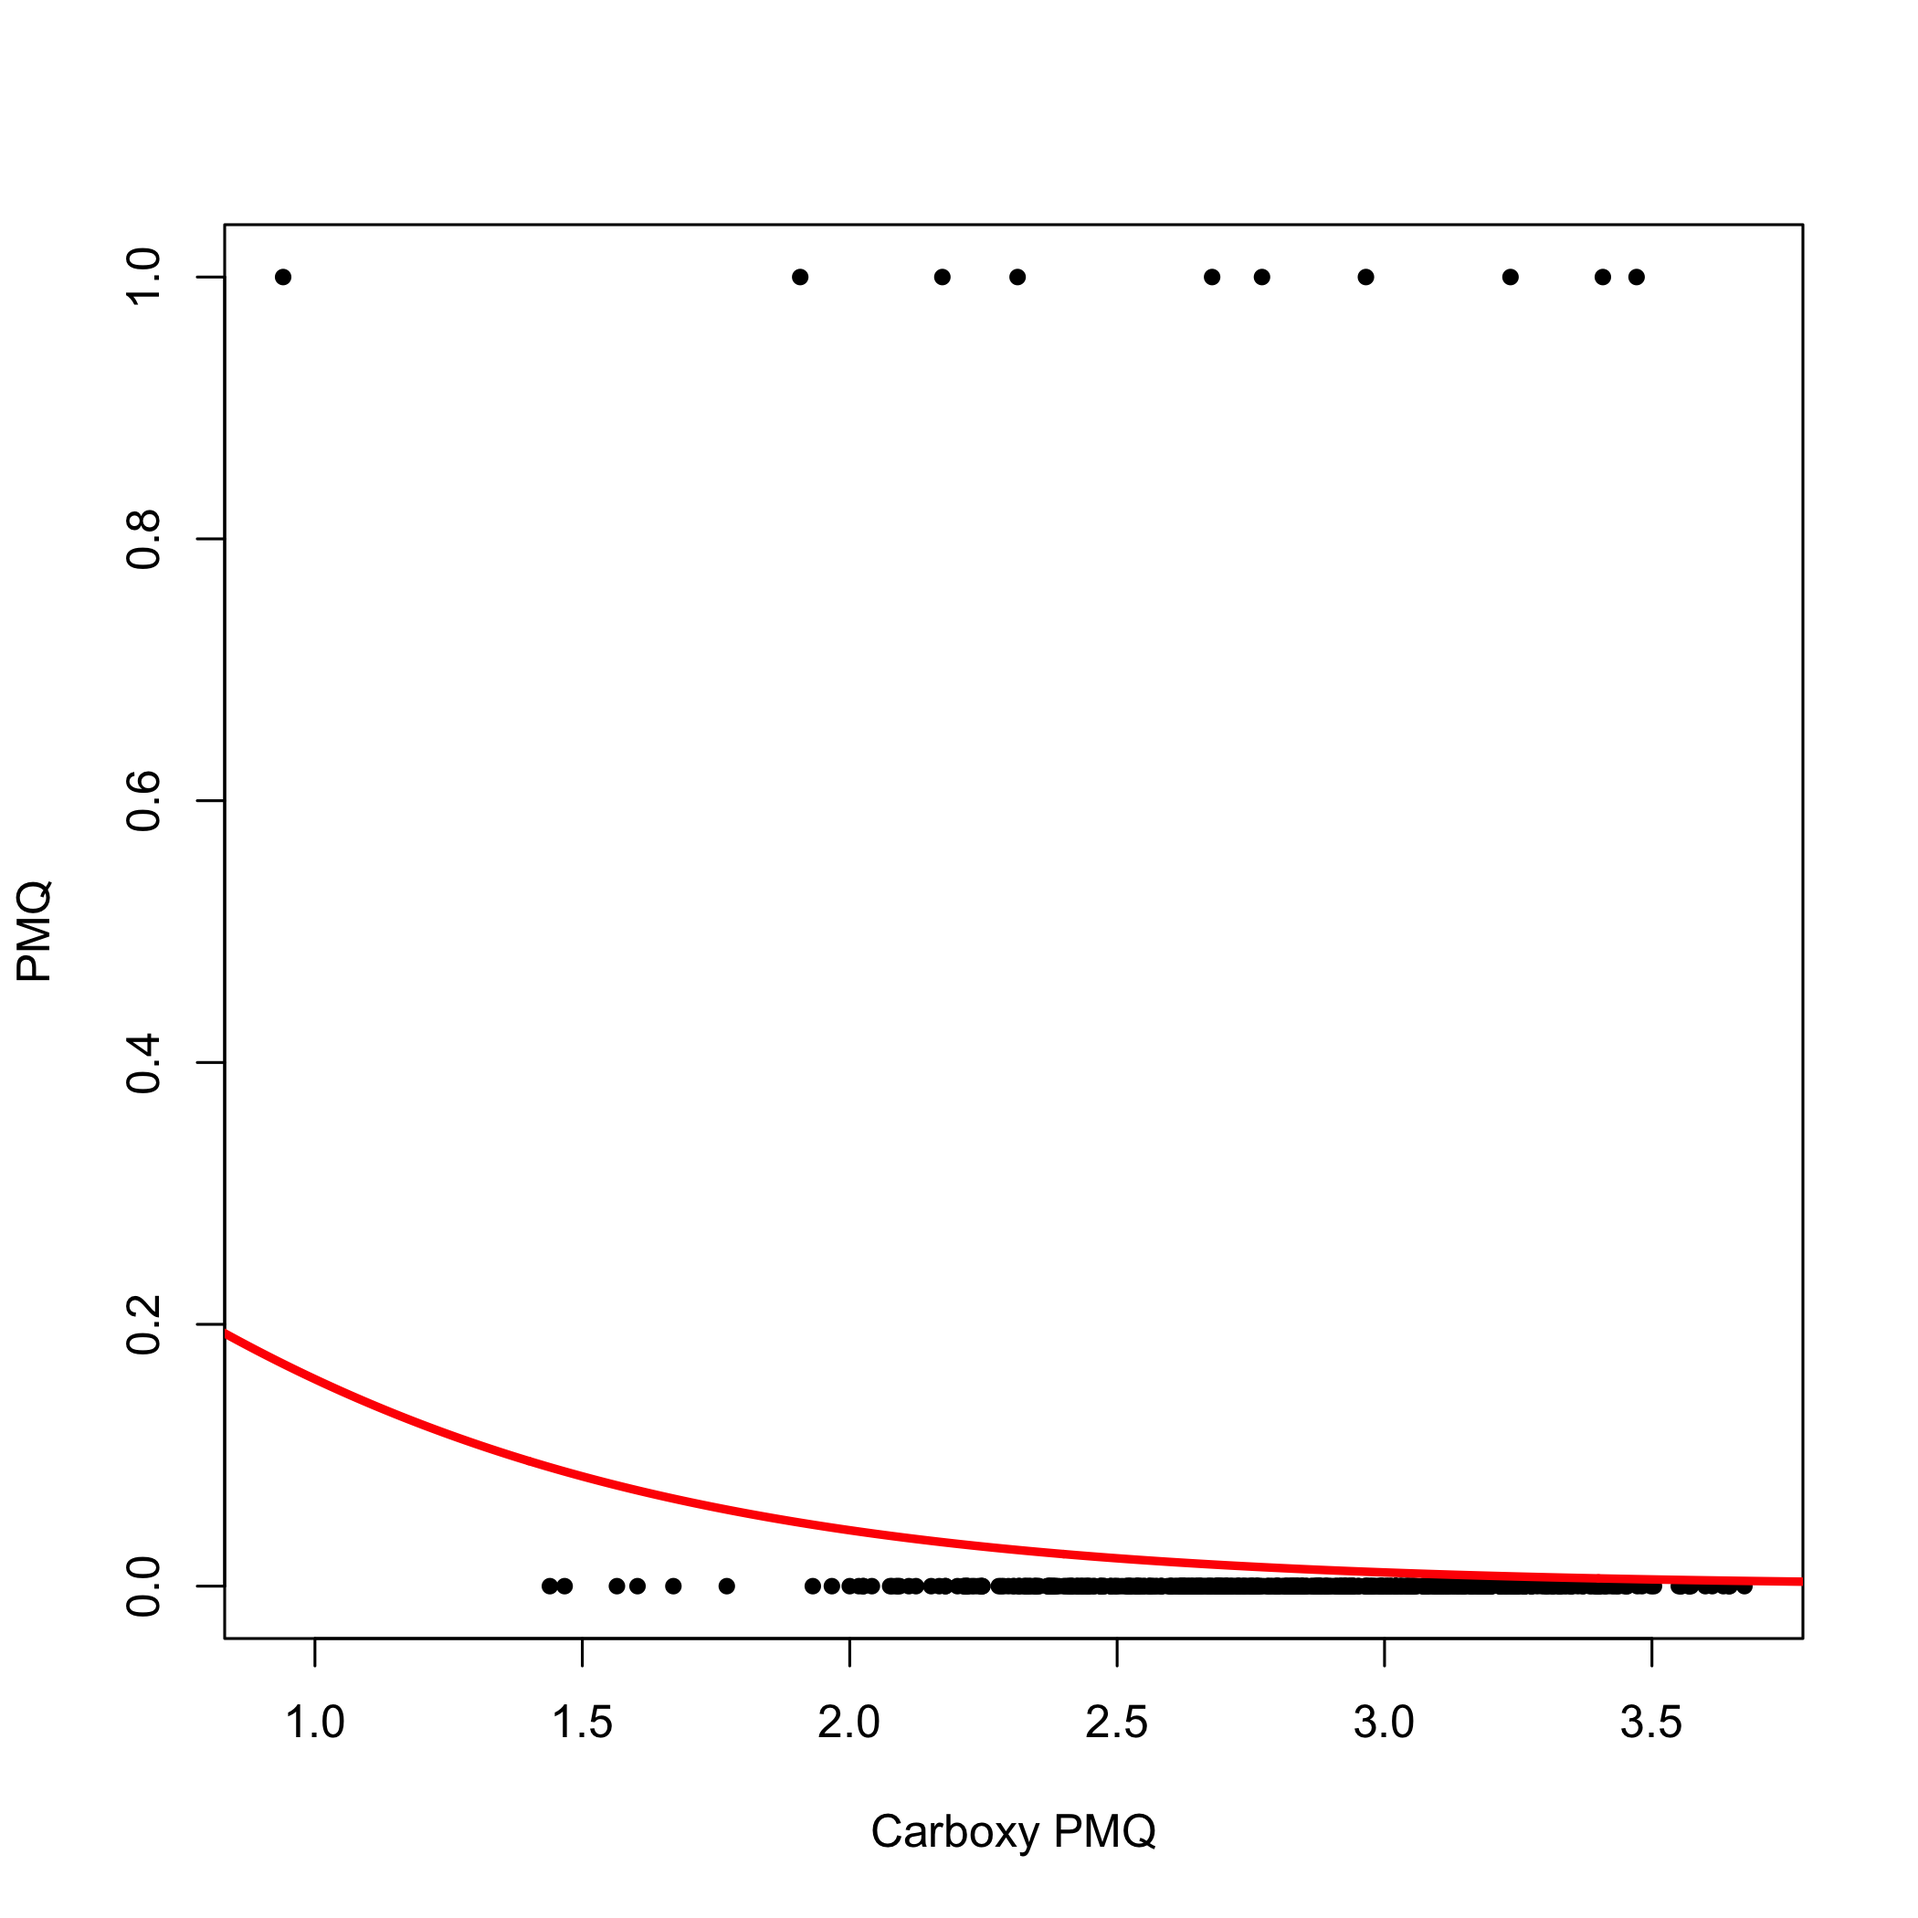
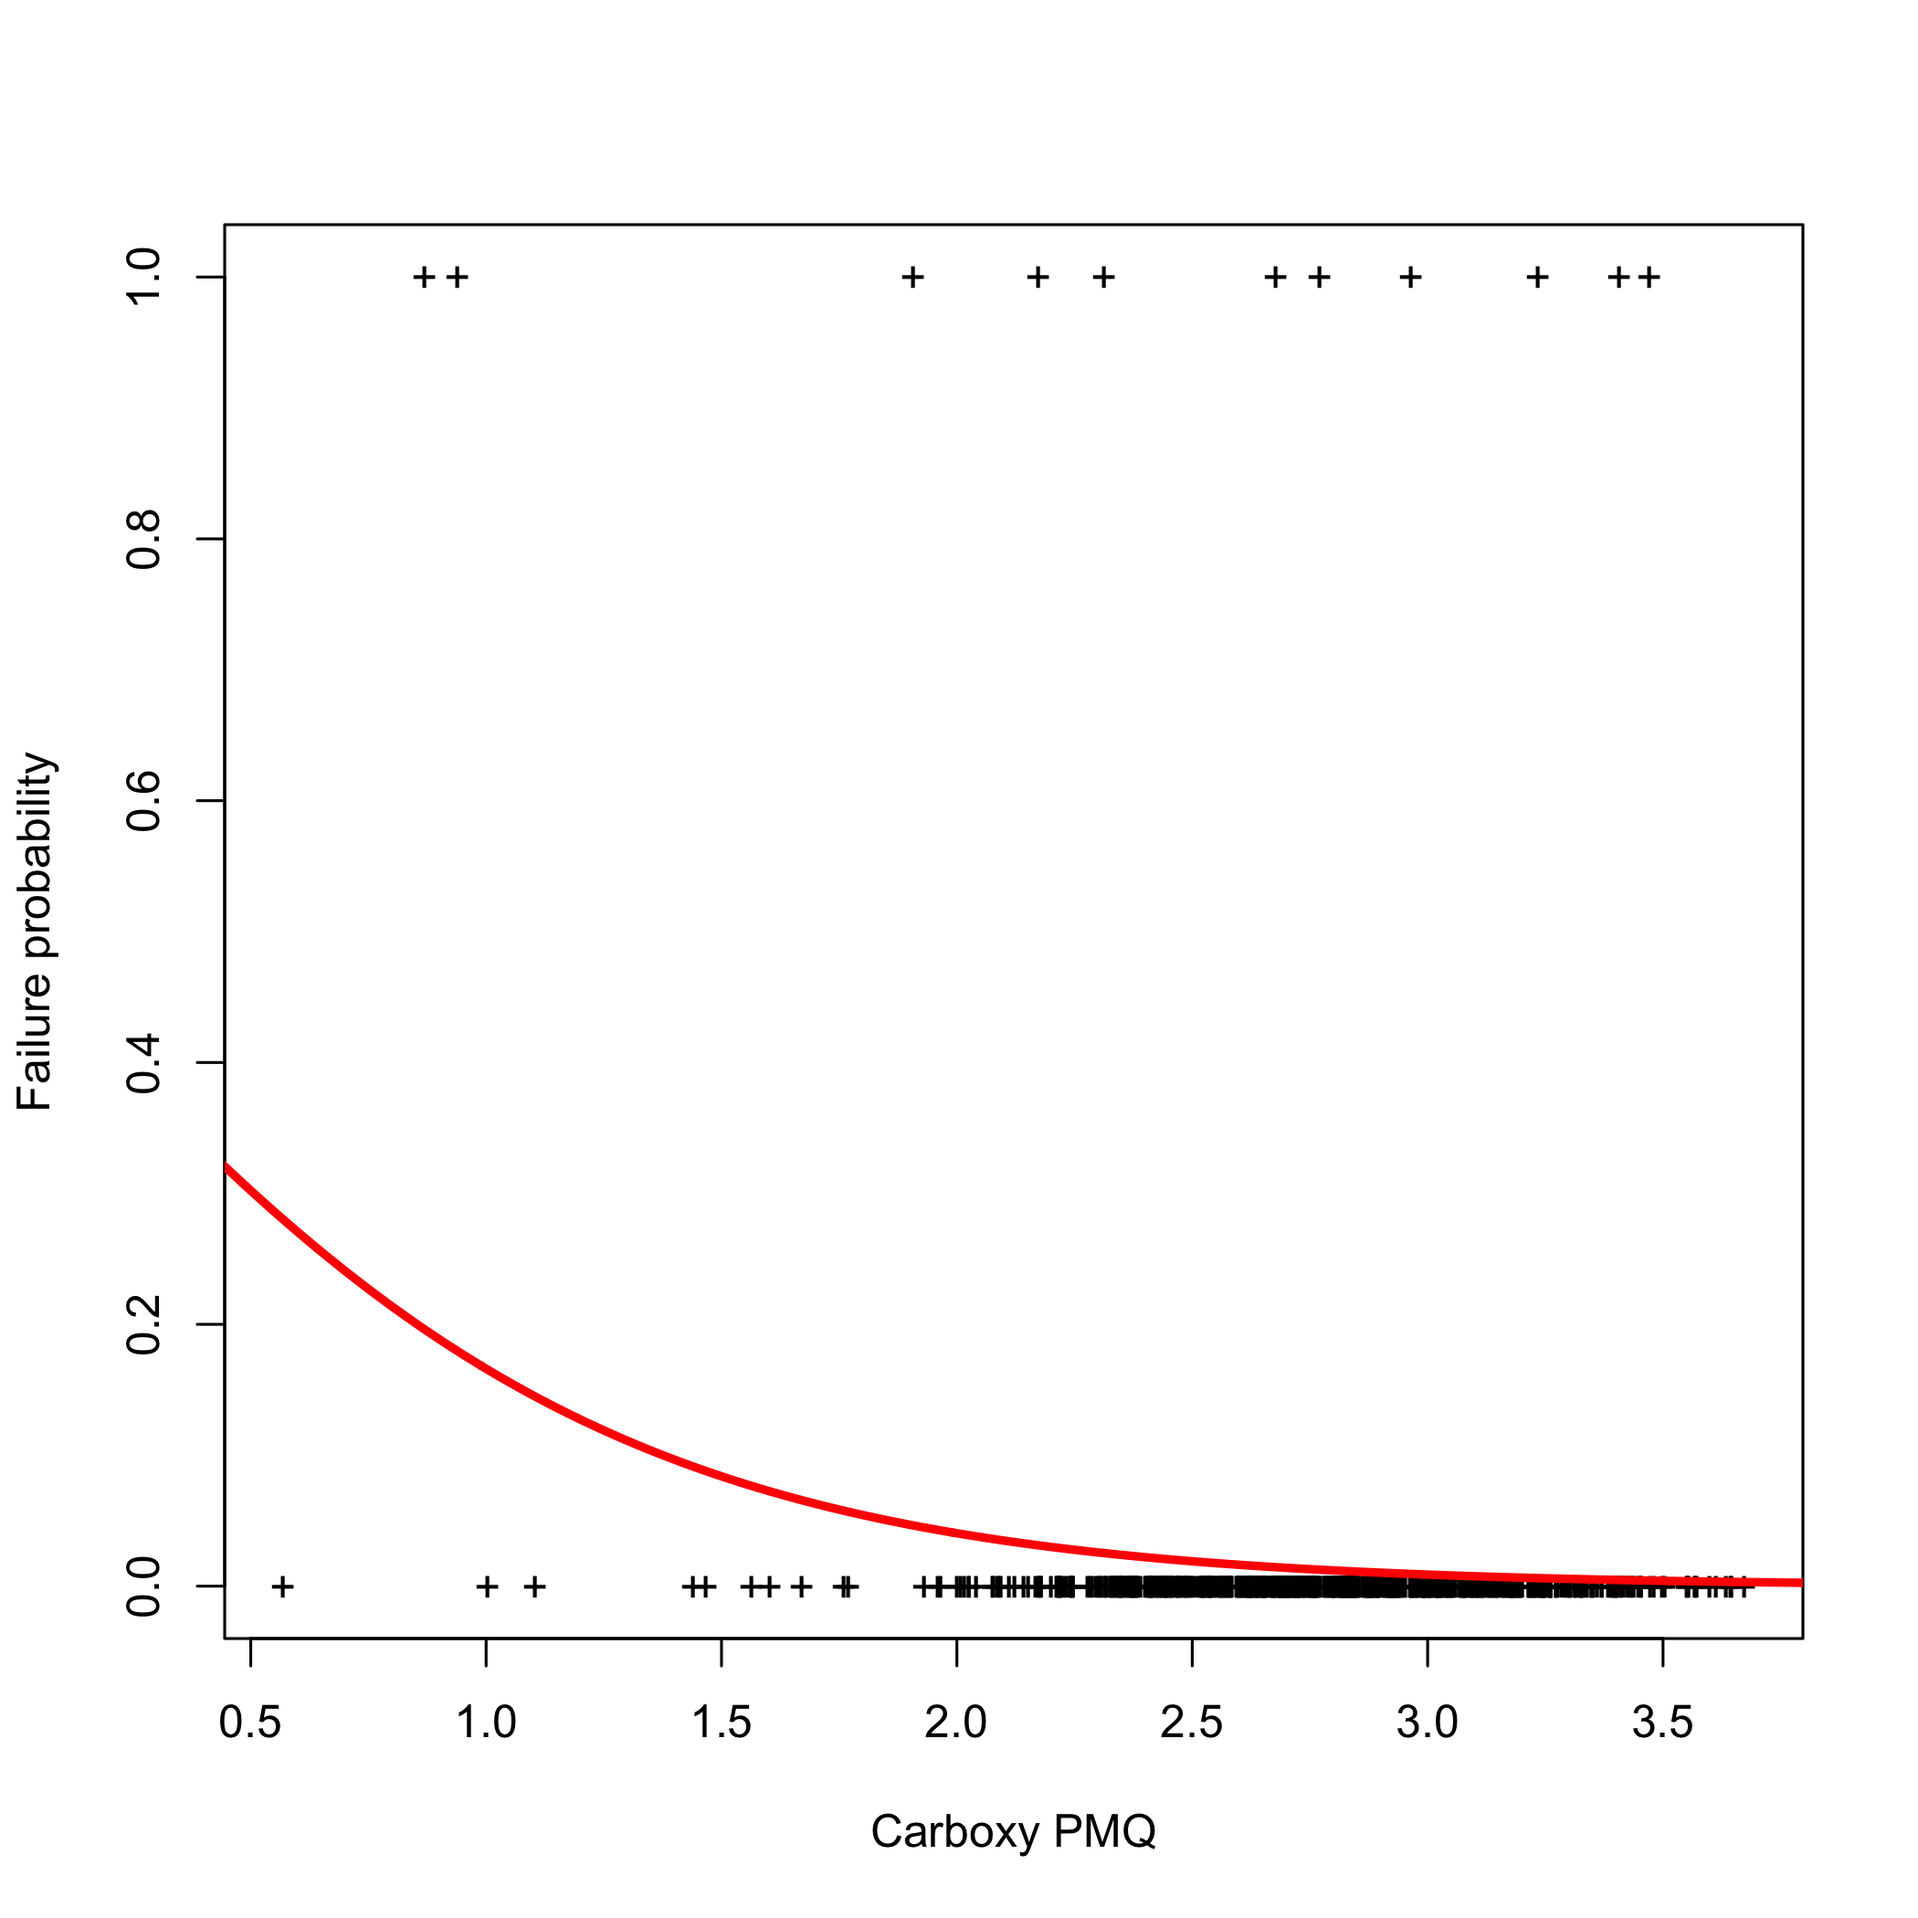
rerun markdown

diff --git a/Pooled_Final_Analysis/Pooled_Analysis.md b/Pooled_Final_Analysis/Pooled_Analysis.md
@@ -950,53 +950,109 @@ summary(mod)
 ## log10_PMQ    0.729 -0.820
 ```
 
-So there is a predictive effect of carboxy primaquine on drug failure. This also suggests that higher concentrations of primaquine are associated with more chance of failure. This also came up in the time to event analysis in the BPD paper but wasn't significant.
+So there is a predictive effect of carboxy primaquine on drug failure. 
 
-This could actually make sense: higher concentrations of primaquine could mean that it's hasn't been effectively metabolised. Higher concentrations of carboxy indicating it has been effectively metabolised (active pathway is unknown).
 
 ```r
-BPD_data = filter(BPD_data, episode==1)
+#BPD_data = filter(BPD_data, episode==1)
 BPD_data$Failure_YN = as.numeric(BPD_data$Failure > 0.5)
-mod1 = glm(Failure_YN ~ log10_carboxyPMQ, data = BPD_data, family='binomial')
+mod1 = glmer(Failure_YN ~ log10_carboxyPMQ + (1 | patientid), 
+             data = BPD_data, family='binomial')
 summary(mod1)
 ```
 
 ```
+## Generalized linear mixed model fit by maximum likelihood (Laplace
+##   Approximation) [glmerMod]
+##  Family: binomial  ( logit )
+## Formula: Failure_YN ~ log10_carboxyPMQ + (1 | patientid)
+##    Data: BPD_data
 ## 
-## Call:
-## glm(formula = Failure_YN ~ log10_carboxyPMQ, family = "binomial", 
-##     data = BPD_data)
+##      AIC      BIC   logLik deviance df.resid 
+##    112.8    126.6    -53.4    106.8      718 
 ## 
-## Deviance Residuals: 
-##     Min       1Q   Median       3Q      Max  
-## -0.4363  -0.1924  -0.1622  -0.1341   3.2343  
+## Scaled residuals: 
+##     Min      1Q  Median      3Q     Max 
+## -0.6238 -0.1315 -0.1084 -0.0887 15.2799 
 ## 
-## Coefficients:
-##                  Estimate Std. Error z value Pr(>|z|)  
-## (Intercept)       -0.2348     1.8708  -0.125   0.9001  
-## log10_carboxyPMQ  -1.4376     0.7099  -2.025   0.0429 *
+## Random effects:
+##  Groups    Name        Variance  Std.Dev. 
+##  patientid (Intercept) 2.042e-14 1.429e-07
+## Number of obs: 721, groups:  patientid, 639
+## 
+## Fixed effects:
+##                  Estimate Std. Error z value Pr(>|z|)   
+## (Intercept)      -0.06011    1.31405  -0.046  0.96352   
+## log10_carboxyPMQ -1.55359    0.51873  -2.995  0.00274 **
 ## ---
 ## Signif. codes:  0 '***' 0.001 '**' 0.01 '*' 0.05 '.' 0.1 ' ' 1
 ## 
-## (Dispersion parameter for binomial family taken to be 1)
-## 
-##     Null deviance: 102.926  on 636  degrees of freedom
-## Residual deviance:  99.309  on 635  degrees of freedom
-##   (18 observations deleted due to missingness)
-## AIC: 103.31
-## 
-## Number of Fisher Scoring iterations: 7
+## Correlation of Fixed Effects:
+##             (Intr)
+## lg10_crbPMQ -0.972
 ```
 
 ```r
-plot(BPD_data$log10_carboxyPMQ, BPD_data$Failure_YN,
-     xlab = 'Carboxy PMQ', ylab = 'PMQ', pch=20)
+plot(BPD_data$log10_carboxyPMQ, BPD_data$Failure_YN,pch='+',
+     xlab = 'Carboxy PMQ', ylab = 'Failure probability')
 xs=seq(0,4,by=.01)
-lines(xs, predict(mod1, newdata = data.frame(log10_carboxyPMQ=xs),
+lines(xs, predict(mod1, newdata = data.frame(log10_carboxyPMQ=xs,
+                                             patientid='new'),
+                  allow.new.levels=T,
                     type = 'response'), col='red', lwd=3)
 ```
 
 ![](Pooled_Analysis_files/figure-html/unnamed-chunk-24-1.png)<!-- -->
 
+This won't go into this paper but looking out of interest:
+
+Does 2D6 correlate with carboxy ?
+
+
+```r
+TwoD6_dat = read.csv('../RData/PK_data/TwoD6&Vivax Genotyping_ASscore.csv')
+TwoD6_dat$ID = apply(TwoD6_dat, 1, function(x) paste(x['Study'],as.integer(x['Patient.ID']),sep = '_'))
+TwoD6_dat$Phenotype = mapvalues(TwoD6_dat$X2D6.Phenotype, 
+                                from = c('PM','IM', 'EM'), to = 1:3)
+BPD_data$ASscore = NA
+for(i in 1:nrow(BPD_data)){
+  id = BPD_data$patientid[i]
+  if(sum(TwoD6_dat$ID==id)>0){
+    BPD_data$ASscore[i] = TwoD6_dat$AS.score[TwoD6_dat$ID==id]
+  }
+}
+
+mod_2D6 = lm(log10_carboxyPMQ ~ ASscore, data = BPD_data)
+summary(mod_2D6)
+```
+
+```
+## 
+## Call:
+## lm(formula = log10_carboxyPMQ ~ ASscore, data = BPD_data)
+## 
+## Residuals:
+##      Min       1Q   Median       3Q      Max 
+## -2.16328 -0.19914  0.03915  0.20937  0.94095 
+## 
+## Coefficients:
+##             Estimate Std. Error t value Pr(>|t|)    
+## (Intercept)  2.79889    0.07745  36.136   <2e-16 ***
+## ASscore     -0.06682    0.05536  -1.207    0.229    
+## ---
+## Signif. codes:  0 '***' 0.001 '**' 0.01 '*' 0.05 '.' 0.1 ' ' 1
+## 
+## Residual standard error: 0.4211 on 232 degrees of freedom
+##   (513 observations deleted due to missingness)
+## Multiple R-squared:  0.00624,	Adjusted R-squared:  0.001956 
+## F-statistic: 1.457 on 1 and 232 DF,  p-value: 0.2287
+```
+
+```r
+plot(BPD_data$ASscore, BPD_data$log10_carboxyPMQ, pch=20)
+lines(xs, predict(mod_2D6, data.frame(ASscore=xs)),lwd=3)
+```
+
+![](Pooled_Analysis_files/figure-html/unnamed-chunk-25-1.png)<!-- -->
 
 
